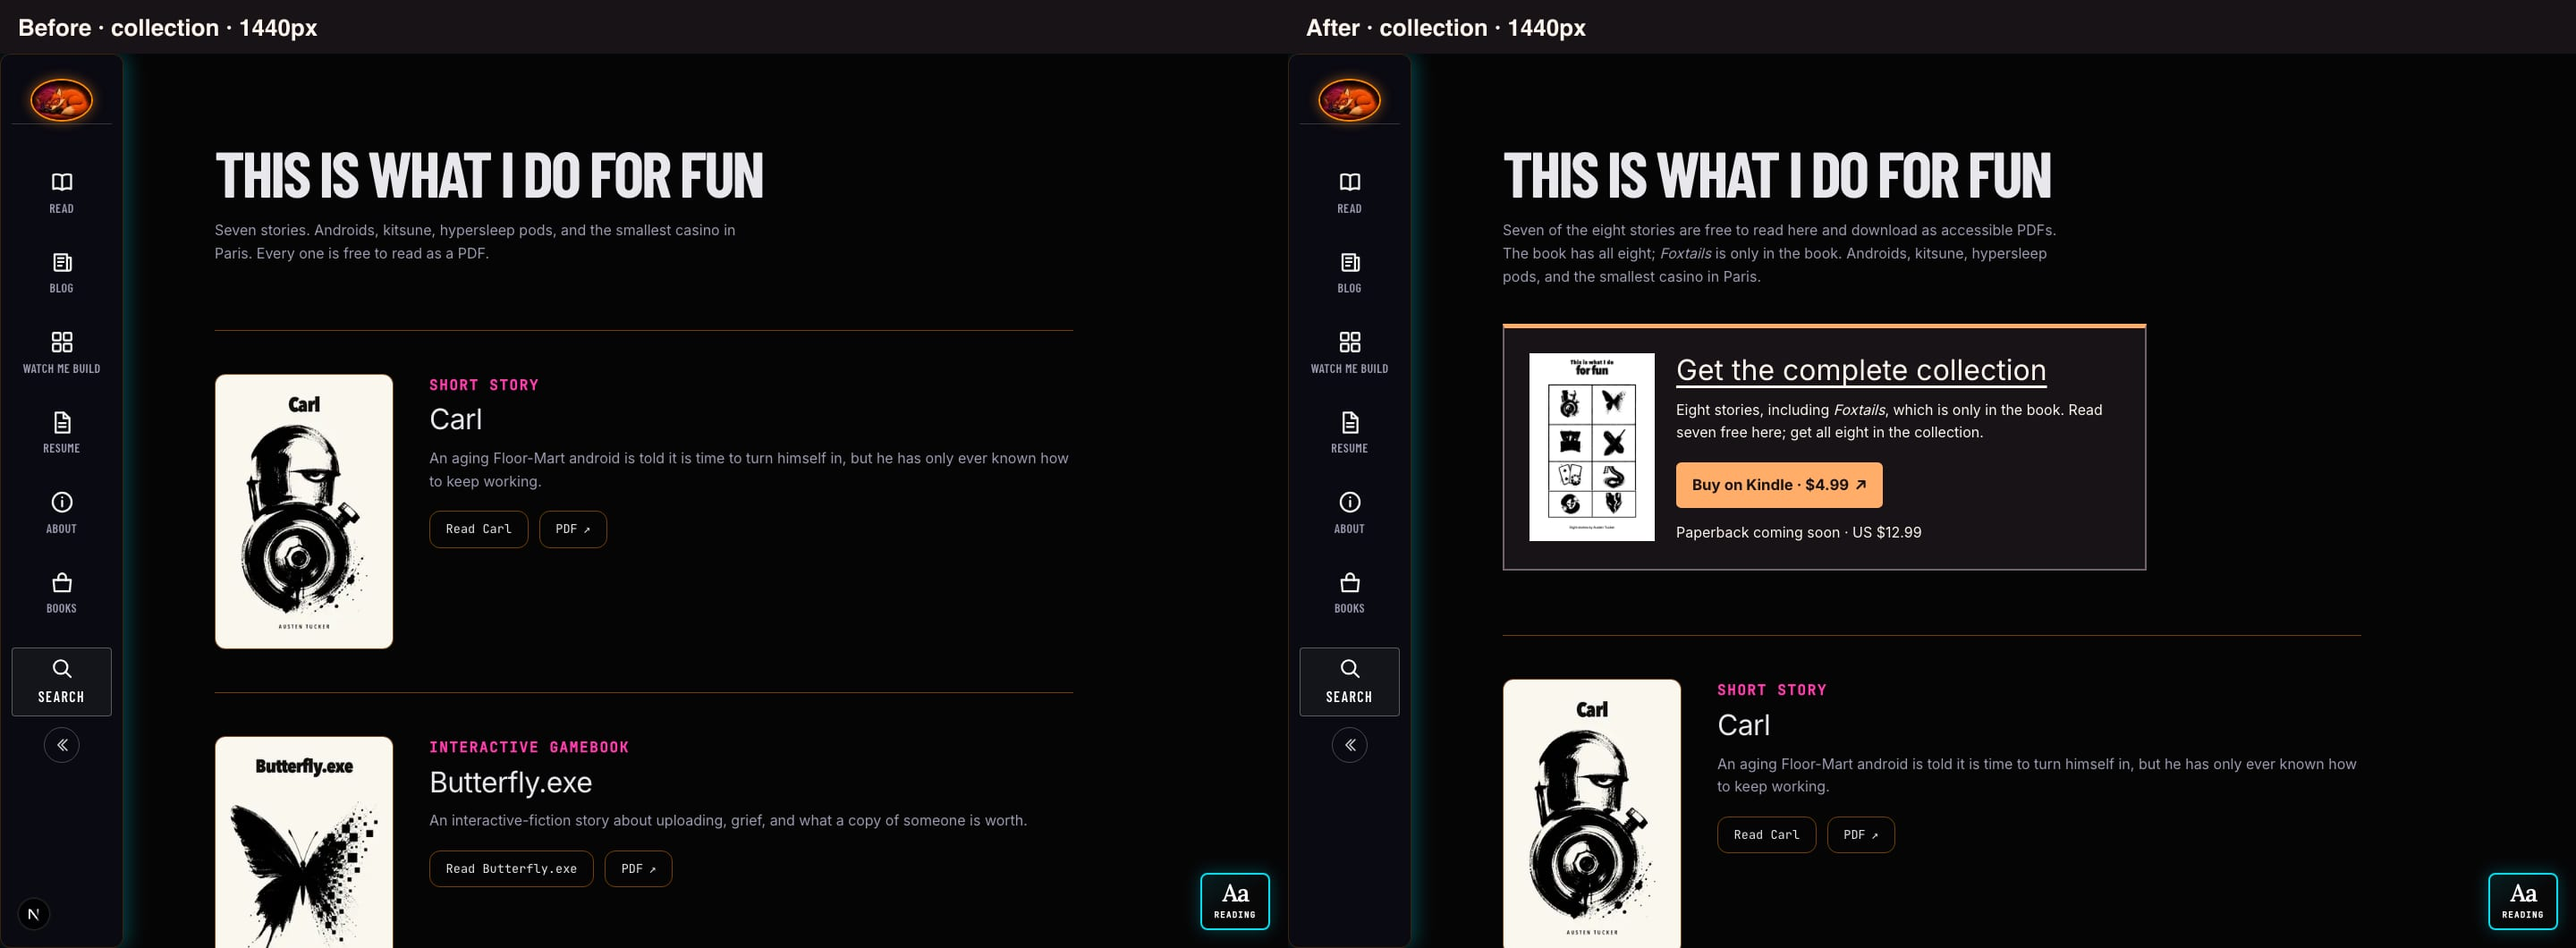
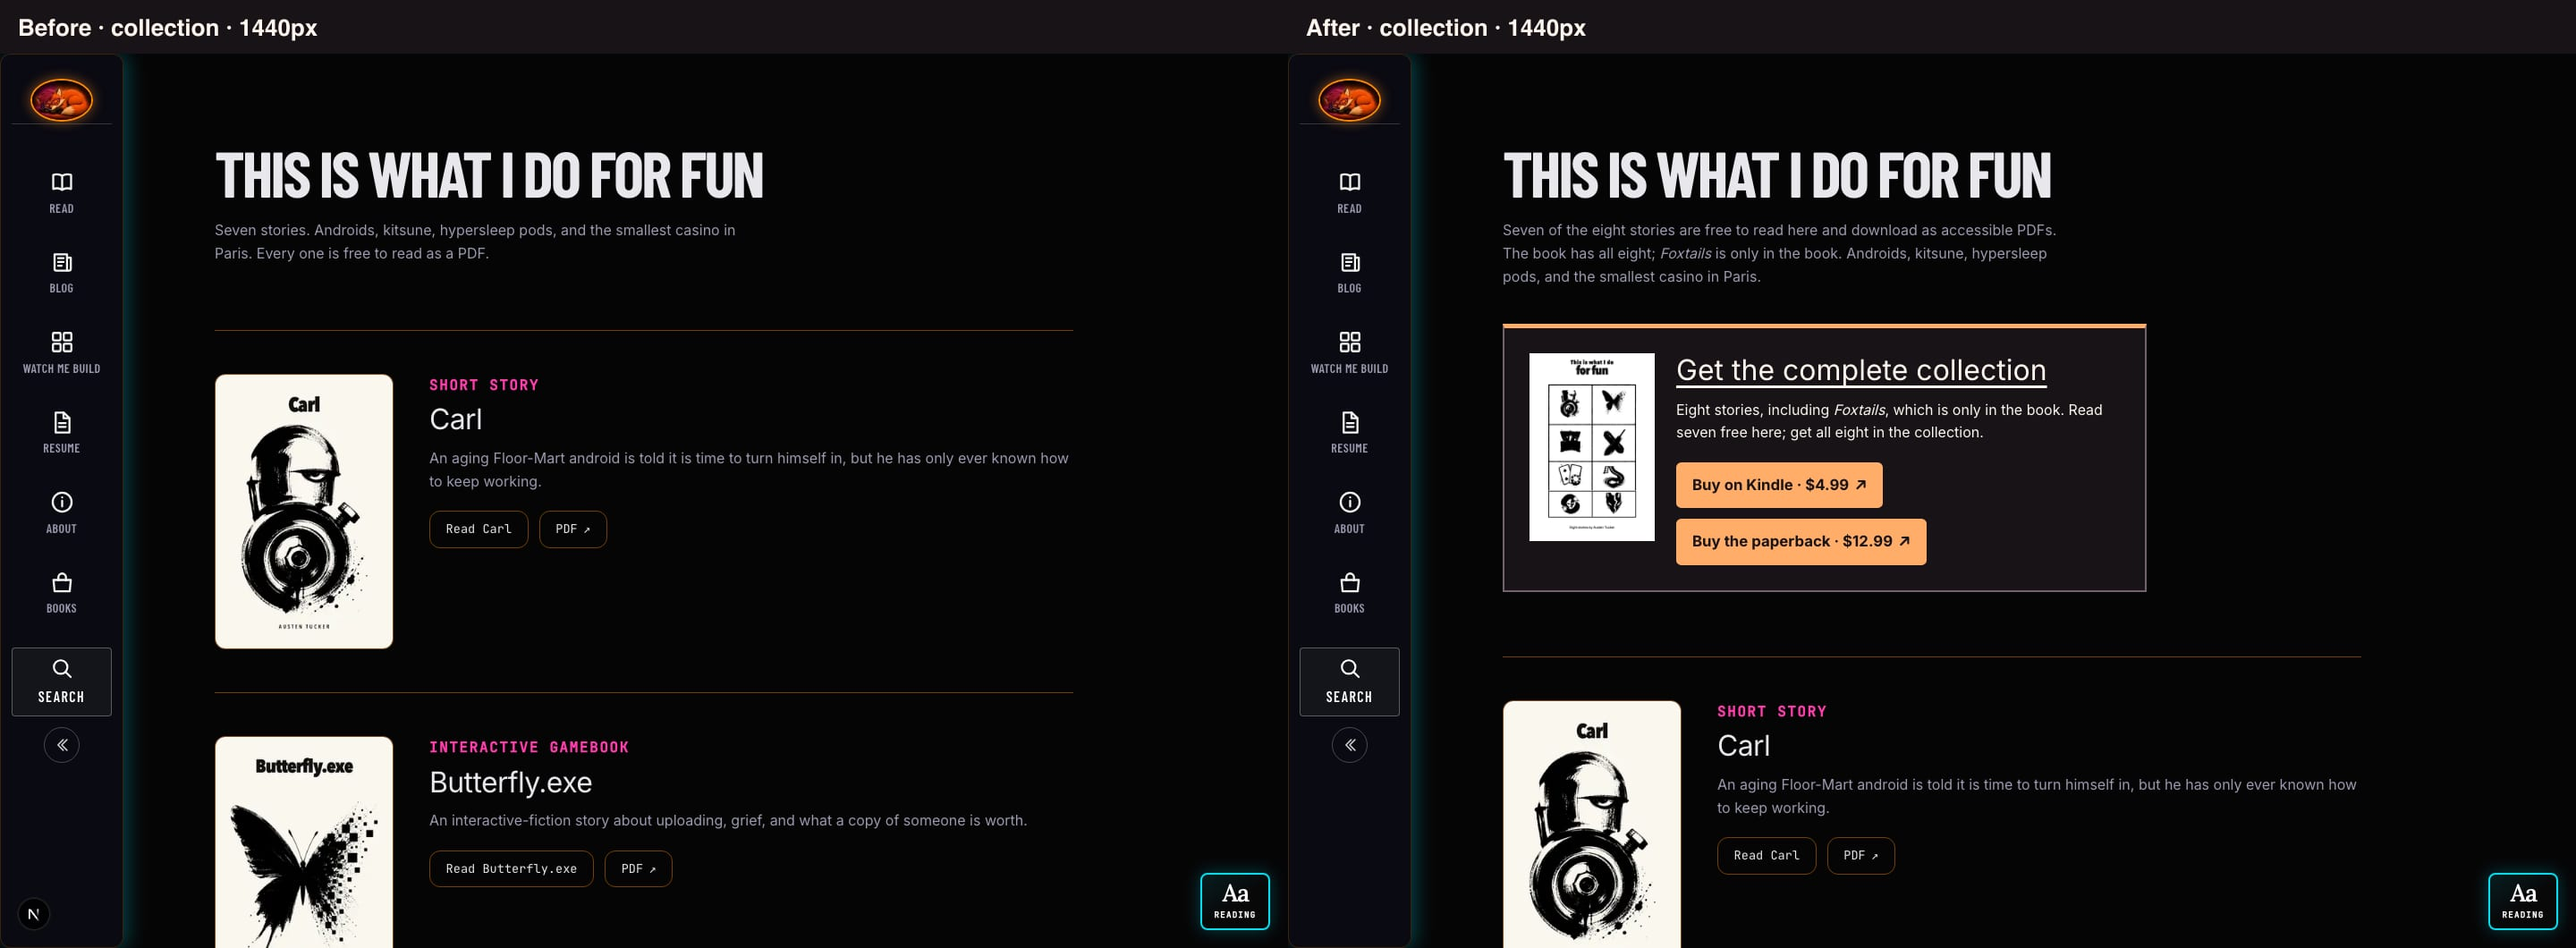
fix: add the verified paperback purchase option

Changed region(s): [[0.5625, 0.716, 0.9062, 0.9962], [0.625, 0.5292, 0.75, 0.6226]]

diff --git a/lib/book-catalog.test.ts b/lib/book-catalog.test.ts
@@ -13,8 +13,8 @@ test('the eight-story book sells Kindle first and keeps the seven free stories s
   assert.equal(book.actions[0].label, 'Buy on Kindle · $4.99');
   assert.equal(book.actions[0].href, 'https://www.amazon.com/dp/B0HM8J2Z87');
   assert.equal(book.actions[0].kind, 'purchase');
-  assert.equal(book.actions[1].label, 'Read seven stories free');
-  assert.equal(book.actions[1].href, '/this-is-what-i-do-for-fun');
+  assert.equal(book.actions[2].label, 'Read seven stories free');
+  assert.equal(book.actions[2].href, '/this-is-what-i-do-for-fun');
   assert.equal(COLLECTION.length, 7);
   assert.ok(!COLLECTION.some((story) => story.slug === 'foxtails'));
   assert.match(book.description, /Eight stories/);
@@ -23,18 +23,24 @@ test('the eight-story book sells Kindle first and keeps the seven free stories s
   assert.equal(HOME_BOOKS[0].coverImage, book.coverImage);
 });
 
-test('unverified paperback has its ISBN and price but no purchase link or offer', () => {
+test('the user-verified paperback has its ISBN, clean purchase URL and USD offer', () => {
   const book = getBook('this-is-what-i-do-for-fun')!;
-  assert.deepEqual(book.paperback, { isbn: '9798160804194', price: '12.99', status: 'coming-soon' });
-  assert.ok(!book.actions.some((action) => action.bookFormat === 'Paperback'));
+  assert.deepEqual(book.paperback, { isbn: '9798160804194', price: '12.99', status: 'available' });
+  assert.equal(book.actions[1].label, 'Buy the paperback · $12.99');
+  assert.equal(book.actions[1].href, 'https://www.amazon.com/dp/B0HMFDFVNH');
+  assert.equal(book.actions[1].external, true);
   const schema = bookJsonLd(book);
   assert.equal(schema.isbn, '9798160804194');
   assert.equal(schema.workExample?.[0].bookFormat, 'https://schema.org/Paperback');
-  assert.equal(schema.offers?.length, 1);
+  assert.equal(schema.offers?.length, 2);
   assert.equal(schema.offers[0].price, '4.99');
   assert.equal(schema.offers[0].priceCurrency, 'USD');
   assert.equal(schema.offers[0].url, book.actions[0].href);
   assert.equal(schema.offers[0].itemOffered.bookFormat, 'https://schema.org/EBook');
+  assert.equal(schema.offers[1].price, '12.99');
+  assert.equal(schema.offers[1].priceCurrency, 'USD');
+  assert.equal(schema.offers[1].url, 'https://www.amazon.com/dp/B0HMFDFVNH');
+  assert.equal(schema.offers[1].itemOffered.bookFormat, 'https://schema.org/Paperback');
 });
 
 test('original Bait and Switch remains available while The Painted Cat is out of circulation', () => {

diff --git a/scripts/seo-rendered.check.ts b/scripts/seo-rendered.check.ts
@@ -88,17 +88,22 @@ test('structured data parses and article identity agrees with the canonical', as
   }
 });
 
-test('the book offers Kindle without advertising an unverified paperback offer', async () => {
+test('the book offers Kindle first and the user-verified paperback second', async () => {
   const { body } = await get('/books/this-is-what-i-do-for-fun');
   const book = jsonLd(body).find((entity) => entity['@type'] === 'Book');
   assert.ok(book);
   assert.equal(book.isbn, '9798160804194');
   const offers = book.offers as Array<Record<string, unknown>>;
-  assert.equal(offers.length, 1);
+  assert.equal(offers.length, 2);
   assert.equal(offers[0].url, 'https://www.amazon.com/dp/B0HM8J2Z87');
   assert.equal(offers[0].price, '4.99');
   assert.equal(offers[0].priceCurrency, 'USD');
-  assert.match(body, /Paperback coming soon/);
+  assert.equal(offers[1].url, 'https://www.amazon.com/dp/B0HMFDFVNH');
+  assert.equal(offers[1].price, '12.99');
+  assert.equal(offers[1].priceCurrency, 'USD');
+  assert.doesNotMatch(body, /Paperback coming soon/);
+  assert.ok(body.indexOf('Buy on Kindle') < body.indexOf('Buy the paperback'));
+  assert.ok(body.indexOf('Buy the paperback') < body.indexOf('Read seven stories free'));
   assert.ok(body.indexOf('Buy on Kindle') < body.indexOf('Read seven stories free'));
 });
 
@@ -119,6 +124,8 @@ test('every free story points to the book above the story and before newsletter 
     assert.match(body, /From the collection/);
     assert.match(body, /href="\/books\/this-is-what-i-do-for-fun">Buy<\/a>/);
     assert.match(body, /href="https:\/\/www.amazon.com\/dp\/B0HM8J2Z87"/);
+    assert.match(body, /href="https:\/\/www.amazon.com\/dp\/B0HMFDFVNH"/);
+    assert.doesNotMatch(body, /Paperback coming soon/);
     assert.ok(body.indexOf('id="story-book-heading"') < body.indexOf('id="end-of-piece-subscribe-heading"'));
     assert.doesNotMatch(body, /All seven stories/);
   }

diff --git a/data/books.ts b/data/books.ts
@@ -19,7 +19,7 @@ export interface BookInfo {
   section: BookSection;
   author?: string;
   releaseYear?: number;
-  paperback?: { isbn: string; price: string; status: 'coming-soon' };
+  paperback?: { isbn: string; price: string; status: 'available' | 'coming-soon' };
   format?: string;
   publisher?: string;
   series?: string;
@@ -44,9 +44,10 @@ export const BOOKS: readonly BookInfo[] = [
     publisher: 'Free Play Publishing',
     coverImage: '/images/books/this-is-what-i-do-for-fun.jpg',
     coverAlt: 'Cover of This is what I do for fun by Austen Tucker.',
-    paperback: { isbn: '9798160804194', price: '12.99', status: 'coming-soon' },
+    paperback: { isbn: '9798160804194', price: '12.99', status: 'available' },
     actions: [
       { label: 'Buy on Kindle · $4.99', href: 'https://www.amazon.com/dp/B0HM8J2Z87', external: true, kind: 'purchase', bookFormat: 'EBook', price: '4.99' },
+      { label: 'Buy the paperback · $12.99', href: 'https://www.amazon.com/dp/B0HMFDFVNH', external: true, kind: 'purchase', bookFormat: 'Paperback', price: '12.99' },
       { label: 'Read seven stories free', href: '/this-is-what-i-do-for-fun', kind: 'read' },
     ],
     nextSlug: 'estelles-children',
